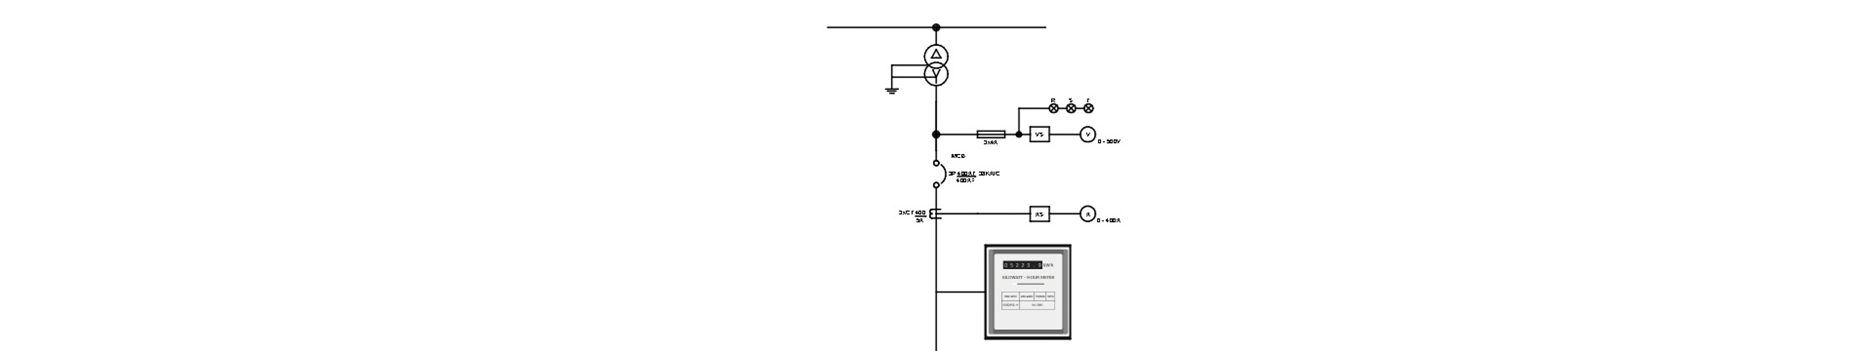
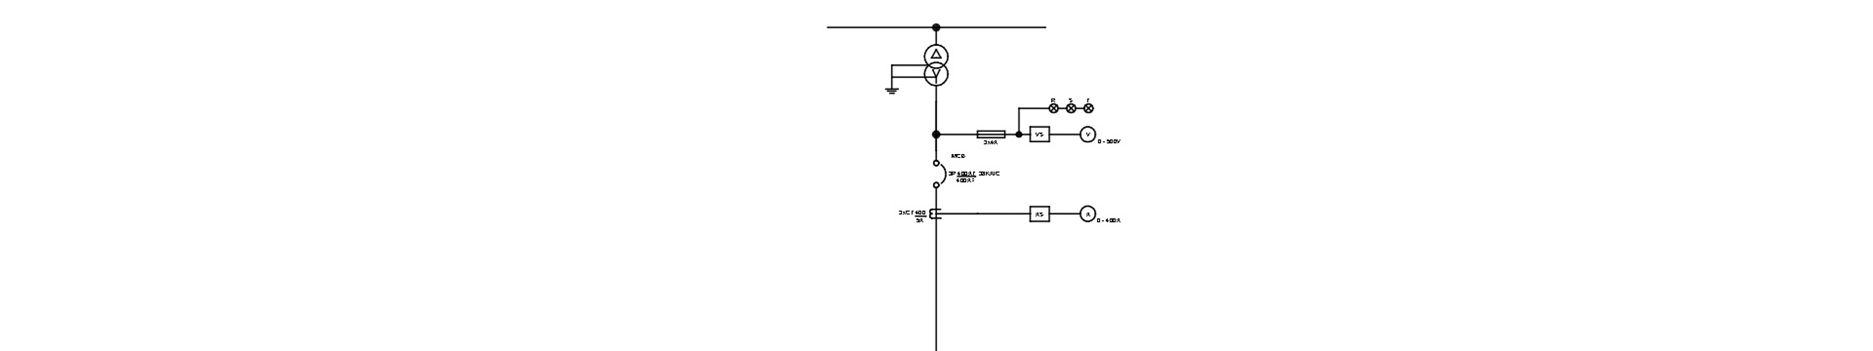
fixed diagram delete main meter

Changed region(s): [[0.4955, 0.6838, 0.5884, 0.9687]]

diff --git a/scripts/scriptjs-diagram.html b/scripts/scriptjs-diagram.html
@@ -21,7 +21,6 @@
         await filterMeters();
         await generateMeters();
         await setInformation();
-        await mainMeter(20);
     }
 
     async function fetchAll() {
@@ -437,131 +436,131 @@
     }
 
 
-    function mainMeter(id) {
-        let parent = document.getElementById('main-meter');
-        let m = filteredDataInMeters.find(m => { return parseInt(m.id) === parseInt(id) });
+    // function mainMeter(id) {
+    //     let parent = document.getElementById('main-meter');
+    //     let m = filteredDataInMeters.find(m => { return parseInt(m.id) === parseInt(id) });
 
-        let strkw = (parseFloat(m.data['1']?.at(-1)?.value) || 0).toFixed(2);
-        let strkwh = (parseFloat(m.data['2']?.at(-1)?.value) || 0).toFixed(2);
-        let stran = (parseFloat(m.data['7']?.at(-1)?.value) || 0).toFixed(2);
-        let strab = (parseFloat(m.data['14']?.at(-1)?.value) || 0).toFixed(2);
-        let strfq = (parseFloat(m.data['18']?.at(-1)?.value) || 0).toFixed(2);
-        let strca = (parseFloat(m.data['10']?.at(-1)?.value) || 0).toFixed(2);
-        let strpf = (parseFloat(m.data['17']?.at(-1)?.value) || 0).toFixed(2);
-        let [intPartkw, decimalPartkw] = strkw.split(".");
-        let [intPartkwh, decimalPartkwh] = strkwh.split(".");
-        let [intPartan, decimalPartan] = stran.split(".");
-        let [intPartab, decimalPartab] = strab.split(".");
-        let [intPartfq, decimalPartfq] = strfq.split(".");
-        let [intPartca, decimalPartca] = strca.split(".");
-        let [intPartpf, decimalPartpf] = strpf.split(".");
+    //     let strkw = (parseFloat(m.data['1']?.at(-1)?.value) || 0).toFixed(2);
+    //     let strkwh = (parseFloat(m.data['2']?.at(-1)?.value) || 0).toFixed(2);
+    //     let stran = (parseFloat(m.data['7']?.at(-1)?.value) || 0).toFixed(2);
+    //     let strab = (parseFloat(m.data['14']?.at(-1)?.value) || 0).toFixed(2);
+    //     let strfq = (parseFloat(m.data['18']?.at(-1)?.value) || 0).toFixed(2);
+    //     let strca = (parseFloat(m.data['10']?.at(-1)?.value) || 0).toFixed(2);
+    //     let strpf = (parseFloat(m.data['17']?.at(-1)?.value) || 0).toFixed(2);
+    //     let [intPartkw, decimalPartkw] = strkw.split(".");
+    //     let [intPartkwh, decimalPartkwh] = strkwh.split(".");
+    //     let [intPartan, decimalPartan] = stran.split(".");
+    //     let [intPartab, decimalPartab] = strab.split(".");
+    //     let [intPartfq, decimalPartfq] = strfq.split(".");
+    //     let [intPartca, decimalPartca] = strca.split(".");
+    //     let [intPartpf, decimalPartpf] = strpf.split(".");
 
-        let digitskw = (intPartkw.padStart(5, "0") + "." + decimalPartkw).split("");
-        let digitskwh = (intPartkwh.padStart(5, "0") + "." + decimalPartkwh).split("");
-        let digitsan = (intPartan.padStart(3, "0") + "." + decimalPartan).split("");
-        let digitsab = (intPartab.padStart(3, "0") + "." + decimalPartab).split("");
-        let digitsfq = (intPartfq.padStart(3, "0") + "." + decimalPartfq).split("");
-        let digitsca = (intPartca.padStart(3, "0") + "." + decimalPartca).split("");
-        let digitspf = (intPartpf.padStart(3, "0") + "." + decimalPartpf).split("");
+    //     let digitskw = (intPartkw.padStart(5, "0") + "." + decimalPartkw).split("");
+    //     let digitskwh = (intPartkwh.padStart(5, "0") + "." + decimalPartkwh).split("");
+    //     let digitsan = (intPartan.padStart(3, "0") + "." + decimalPartan).split("");
+    //     let digitsab = (intPartab.padStart(3, "0") + "." + decimalPartab).split("");
+    //     let digitsfq = (intPartfq.padStart(3, "0") + "." + decimalPartfq).split("");
+    //     let digitsca = (intPartca.padStart(3, "0") + "." + decimalPartca).split("");
+    //     let digitspf = (intPartpf.padStart(3, "0") + "." + decimalPartpf).split("");
 
-        let wrapper = document.createElement('div');
-        wrapper.style.width = "150px";
-        wrapper.style.height = "170px";
-        wrapper.style.marginRight = "0px";
-        wrapper.style.overflow = "hidden";
-        wrapper.style.display = "inline-block";
+    //     let wrapper = document.createElement('div');
+    //     wrapper.style.width = "150px";
+    //     wrapper.style.height = "170px";
+    //     wrapper.style.marginRight = "0px";
+    //     wrapper.style.overflow = "hidden";
+    //     wrapper.style.display = "inline-block";
 
-        let div = document.createElement('div');
-        div.className = "d-flex flex-column p-2 rounded";
-        div.style.width = "320px";
-        div.style.height = "360px";
-        div.style.backgroundColor = "#EFEFEF";
-        div.style.transform = "scale(0.45)";
-        div.style.transformOrigin = "top left";
+    //     let div = document.createElement('div');
+    //     div.className = "d-flex flex-column p-2 rounded";
+    //     div.style.width = "320px";
+    //     div.style.height = "360px";
+    //     div.style.backgroundColor = "#EFEFEF";
+    //     div.style.transform = "scale(0.45)";
+    //     div.style.transformOrigin = "top left";
 
-        div.innerHTML = `
-                <div class="w-100 h-100 px-3 rounded" onclick="showModalMeter(${m.id})" style="background-color:#858585;">
-                    <div class="w-100 h-100 px-1 py-3 rounded position-relative" style="background-color:#666666;">
-                        <div id="status-${m.id}" class="position-absolute rounded-circle bg-danger p-2" style="top:20px; right:10px;">
-                        </div>
-                        <div class="w-100 h-100 p-2 d-flex flex-column rounded" style="background-color:#EFEFEF;">
-                            <div class="w-100 mb-1 d-flex justify-content-center align-content-center">
-                                <div class="w-100 d-flex justify-content-center align-items-center">
-                                    <div class="w-75 d-flex justify-content-end">
-                                        ${digitskw.map(d => `<div class="slot-number">${d}</div>`).join("")}
-                                    </div>
-                                    <div class="text-black ms-2 w-25">kW</div>
-                                </div>
-                            </div>
-                            <div class="w-100 mb-1 d-flex justify-content-center align-content-center">
-                                <div class="w-100 d-flex justify-content-center align-items-center">
-                                    <div class="w-75 d-flex justify-content-end">
-                                        ${digitskwh.map(d => `<div class="slot-number">${d}</div>`).join("")}
-                                    </div>
-                                    <div class="text-black ms-2 w-25">kW·h</div>
-                                </div>
-                            </div>
-                            <div class="w-100 h-25 text-black text-center">
-                                <div id="line-active-${m.id}" class="stop-line"></div>
-                            </div>
-                            <div class="w-100 mb-3 d-flex justify-content-center align-content-center">
-                                <div class="w-50 d-flex flex-column justify-content-center align-items-center">
-                                    <div class="text-black w-25">A-N</div>
-                                    <div class="w-75 d-flex justify-content-end">
-                                        ${digitsan.map(d => `<div class="slot-number">${d}</div>`).join("")}
-                                        <div class="text-black ms-1 w-25">V</div>
-                                    </div>
-                                </div>
-                                <div class="w-50 d-flex flex-column justify-content-center align-items-center">
-                                    <div class="text-black w-25">A-B</div>
-                                    <div class="w-75 d-flex justify-content-end">
-                                        ${digitsab.map(d => `<div class="slot-number">${d}</div>`).join("")}
-                                        <div class="text-black ms-1 w-25">V</div>
-                                    </div>
-                                </div>
-                            </div>
-                            <div class="w-100 mb-1 d-flex justify-content-center align-content-center">
-                                <div class="w-100 d-flex justify-content-center align-items-center">
-                                    <div class="w-75 d-flex justify-content-end">
-                                        <div class="text-black w-25">Cur-A</div>
-                                        ${digitsca.map(d => `<div class="slot-number">${d}</div>`).join("")}
-                                    </div>
-                                    <div class="text-black ms-1 w-25">A</div>
-                                </div>
-                            </div>
-                            <div class="w-100 mb-1 d-flex justify-content-center align-content-center">
-                                <div class="w-100 d-flex justify-content-center align-items-center">
-                                    <div class="w-75 d-flex justify-content-end">
-                                    <div class="text-black w-25">PF</div>
-                                    ${digitspf.map(d => `<div class="slot-number">${d}</div>`).join("")}
-                                    </div>
-                                    <div class="text-black ms-1 w-25"></div>
-                                </div>
-                            </div>
-                            <div class="w-100 mb-1 d-flex justify-content-center align-content-center">
-                                <div class="w-100 d-flex justify-content-center align-items-center">
-                                    <div class="w-75 d-flex justify-content-end">
-                                    <div class="text-black w-25">Fq</div>
-                                    ${digitsfq.map(d => `<div class="slot-number">${d}</div>`).join("")}
-                                    </div>
-                                    <div class="text-black ms-1 w-25">Hz</div>
-                                </div>
-                            </div>
-                            <div class="text-black text-center fw-bold fs-5">
-                                ${m.name}   
-                            </div>
-                        </div>
-                    </div>
-                </div>
-            `;
-        wrapper.appendChild(div);
-        parent.appendChild(wrapper);
-        if (m.is_active === '1') {
-            document.getElementById(`line-active-x-${m.id}`).classList.remove('stop-line');
-            document.getElementById(`line-active-x-${m.id}`).classList.add('moving-line');
-        }
-        let status = document.getElementById('status-' + m.id);
-        console.log(status);
-        status.classList.replace("bg-danger", stran === "0.00" ? "bg-danger" : "bg-success");
-    }
+    //     div.innerHTML = `
+    //             <div class="w-100 h-100 px-3 rounded" onclick="showModalMeter(${m.id})" style="background-color:#858585;">
+    //                 <div class="w-100 h-100 px-1 py-3 rounded position-relative" style="background-color:#666666;">
+    //                     <div id="status-${m.id}" class="position-absolute rounded-circle bg-danger p-2" style="top:20px; right:10px;">
+    //                     </div>
+    //                     <div class="w-100 h-100 p-2 d-flex flex-column rounded" style="background-color:#EFEFEF;">
+    //                         <div class="w-100 mb-1 d-flex justify-content-center align-content-center">
+    //                             <div class="w-100 d-flex justify-content-center align-items-center">
+    //                                 <div class="w-75 d-flex justify-content-end">
+    //                                     ${digitskw.map(d => `<div class="slot-number">${d}</div>`).join("")}
+    //                                 </div>
+    //                                 <div class="text-black ms-2 w-25">kW</div>
+    //                             </div>
+    //                         </div>
+    //                         <div class="w-100 mb-1 d-flex justify-content-center align-content-center">
+    //                             <div class="w-100 d-flex justify-content-center align-items-center">
+    //                                 <div class="w-75 d-flex justify-content-end">
+    //                                     ${digitskwh.map(d => `<div class="slot-number">${d}</div>`).join("")}
+    //                                 </div>
+    //                                 <div class="text-black ms-2 w-25">kW·h</div>
+    //                             </div>
+    //                         </div>
+    //                         <div class="w-100 h-25 text-black text-center">
+    //                             <div id="line-active-${m.id}" class="stop-line"></div>
+    //                         </div>
+    //                         <div class="w-100 mb-3 d-flex justify-content-center align-content-center">
+    //                             <div class="w-50 d-flex flex-column justify-content-center align-items-center">
+    //                                 <div class="text-black w-25">A-N</div>
+    //                                 <div class="w-75 d-flex justify-content-end">
+    //                                     ${digitsan.map(d => `<div class="slot-number">${d}</div>`).join("")}
+    //                                     <div class="text-black ms-1 w-25">V</div>
+    //                                 </div>
+    //                             </div>
+    //                             <div class="w-50 d-flex flex-column justify-content-center align-items-center">
+    //                                 <div class="text-black w-25">A-B</div>
+    //                                 <div class="w-75 d-flex justify-content-end">
+    //                                     ${digitsab.map(d => `<div class="slot-number">${d}</div>`).join("")}
+    //                                     <div class="text-black ms-1 w-25">V</div>
+    //                                 </div>
+    //                             </div>
+    //                         </div>
+    //                         <div class="w-100 mb-1 d-flex justify-content-center align-content-center">
+    //                             <div class="w-100 d-flex justify-content-center align-items-center">
+    //                                 <div class="w-75 d-flex justify-content-end">
+    //                                     <div class="text-black w-25">Cur-A</div>
+    //                                     ${digitsca.map(d => `<div class="slot-number">${d}</div>`).join("")}
+    //                                 </div>
+    //                                 <div class="text-black ms-1 w-25">A</div>
+    //                             </div>
+    //                         </div>
+    //                         <div class="w-100 mb-1 d-flex justify-content-center align-content-center">
+    //                             <div class="w-100 d-flex justify-content-center align-items-center">
+    //                                 <div class="w-75 d-flex justify-content-end">
+    //                                 <div class="text-black w-25">PF</div>
+    //                                 ${digitspf.map(d => `<div class="slot-number">${d}</div>`).join("")}
+    //                                 </div>
+    //                                 <div class="text-black ms-1 w-25"></div>
+    //                             </div>
+    //                         </div>
+    //                         <div class="w-100 mb-1 d-flex justify-content-center align-content-center">
+    //                             <div class="w-100 d-flex justify-content-center align-items-center">
+    //                                 <div class="w-75 d-flex justify-content-end">
+    //                                 <div class="text-black w-25">Fq</div>
+    //                                 ${digitsfq.map(d => `<div class="slot-number">${d}</div>`).join("")}
+    //                                 </div>
+    //                                 <div class="text-black ms-1 w-25">Hz</div>
+    //                             </div>
+    //                         </div>
+    //                         <div class="text-black text-center fw-bold fs-5">
+    //                             ${m.name}   
+    //                         </div>
+    //                     </div>
+    //                 </div>
+    //             </div>
+    //         `;
+    //     wrapper.appendChild(div);
+    //     parent.appendChild(wrapper);
+    //     if (m.is_active === '1') {
+    //         document.getElementById(`line-active-x-${m.id}`).classList.remove('stop-line');
+    //         document.getElementById(`line-active-x-${m.id}`).classList.add('moving-line');
+    //     }
+    //     let status = document.getElementById('status-' + m.id);
+    //     console.log(status);
+    //     status.classList.replace("bg-danger", stran === "0.00" ? "bg-danger" : "bg-success");
+    // }
 </script>
